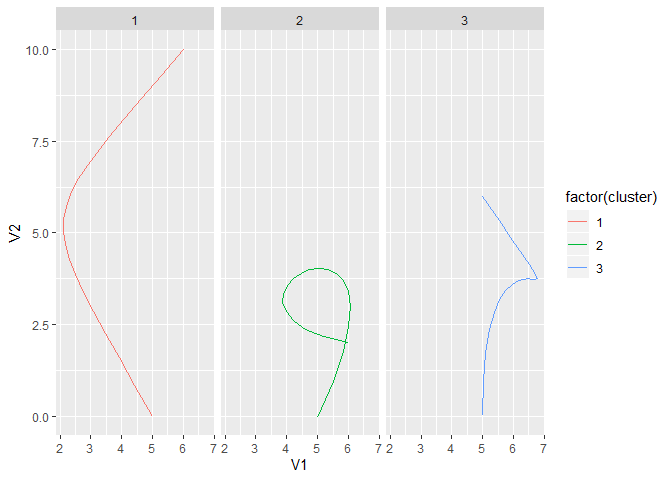
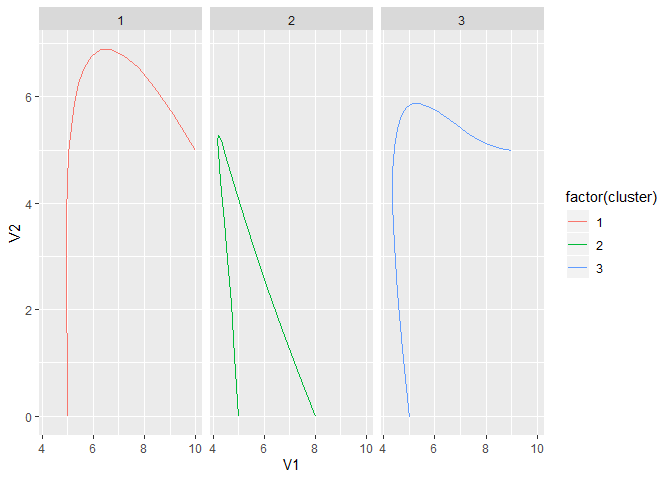
updated for better 903124 data

diff --git a/README.md b/README.md
@@ -86,20 +86,20 @@ em_results <-
 #> 0 sec elapsed
 #> [1] 1
 #> [1] "e_step time"
-#> 0.53 sec elapsed
+#> 0.56 sec elapsed
 #> [1] -Inf
 #> [1] "m_step time"
 #> 0.03 sec elapsed
 #> [1] 2
 #> [1] "e_step time"
-#> 0.53 sec elapsed
-#> [1] 3647.155
+#> 0.51 sec elapsed
+#> [1] 3392.626
 #> [1] "m_step time"
-#> 0.02 sec elapsed
+#> 0.01 sec elapsed
 #> [1] 3
 #> [1] "e_step time"
-#> 0.52 sec elapsed
-#> 1.63 sec elapsed
+#> 0.54 sec elapsed
+#> 1.69 sec elapsed
 
 
 cluster_means <-
@@ -117,9 +117,9 @@ nested_trajectory_data %>%
 #> # A tibble: 3 x 3
 #>   cluster pred_cluster     n
 #>     <dbl>        <dbl> <int>
-#> 1       1            1    12
-#> 2       2            3     4
-#> 3       3            2     4
+#> 1       1            3     5
+#> 2       2            2     5
+#> 3       3            1    10
 
 nested_trajectory_data %>%
   bind_cols(as_tibble(em_results$Pik)) %>%
@@ -162,9 +162,9 @@ new_data_fit %>%
 #> # A tibble: 3 x 3
 #>   cluster cluster_assigned     n
 #>     <dbl>            <dbl> <int>
-#> 1       1                1    46
-#> 2       2                3    31
-#> 3       3                2    43
+#> 1       1                3    50
+#> 2       2                2    38
+#> 3       3                1    32
 ```
 
 ``` r
@@ -172,18 +172,18 @@ new_data_fit %>%
 fit_new_data(new_trajectory_data, nfl_em_results) %>%
   left_join(cluster_route_map, by = c("cluster_assigned" = "cluster"))
 #> # A tibble: 120 x 5
-#>    curve_i cluster           data cluster_assigned route_name
-#>      <int>   <dbl> <list<df[,2]>>            <dbl> <chr>     
-#>  1       1       1       [43 x 2]               18 flat      
-#>  2       2       3       [41 x 2]               26 deep_out  
-#>  3       3       1       [37 x 2]               18 flat      
-#>  4       4       1       [39 x 2]               18 flat      
-#>  5       5       1       [47 x 2]               18 flat      
-#>  6       6       2       [49 x 2]               26 deep_out  
-#>  7       7       3       [48 x 2]               26 deep_out  
-#>  8       8       1       [46 x 2]               18 flat      
-#>  9       9       1       [49 x 2]               18 flat      
-#> 10      10       2       [43 x 2]               26 deep_out  
+#>    curve_i cluster data              cluster_assigned route_name
+#>      <int>   <dbl> <list>                       <dbl> <chr>     
+#>  1       1       1 <tibble [46 x 2]>               26 deep_out  
+#>  2       2       1 <tibble [43 x 2]>               26 deep_out  
+#>  3       3       3 <tibble [48 x 2]>               26 deep_out  
+#>  4       4       2 <tibble [47 x 2]>               26 deep_out  
+#>  5       5       3 <tibble [40 x 2]>               26 deep_out  
+#>  6       6       2 <tibble [43 x 2]>               26 deep_out  
+#>  7       7       2 <tibble [41 x 2]>               26 deep_out  
+#>  8       8       3 <tibble [36 x 2]>               26 deep_out  
+#>  9       9       1 <tibble [48 x 2]>               26 deep_out  
+#> 10      10       3 <tibble [46 x 2]>               26 deep_out  
 #> # ... with 110 more rows
 ```
 
@@ -237,18 +237,18 @@ routes_data %>%
   fit_new_data(nfl_em_results) %>%
   left_join(cluster_route_map, by = c("cluster_assigned" = "cluster"))
 #> # A tibble: 394 x 4
-#>    curve_num           data cluster_assigned route_name
-#>        <int> <list<df[,2]>>            <dbl> <chr>     
-#>  1         1       [63 x 2]               30 dig/over  
-#>  2         2       [63 x 2]                5 go/seam   
-#>  3         3       [63 x 2]               27 corner    
-#>  4         4       [63 x 2]               11 flat      
-#>  5         5       [63 x 2]                5 go/seam   
-#>  6         6       [45 x 2]               27 corner    
-#>  7         7       [45 x 2]                4 flat      
-#>  8         8       [45 x 2]                2 dig/over  
-#>  9         9       [45 x 2]               18 flat      
-#> 10        10       [45 x 2]               29 deep_out  
+#>    curve_num data              cluster_assigned route_name
+#>        <int> <list>                       <dbl> <chr>     
+#>  1         1 <tibble [63 x 2]>               30 dig/over  
+#>  2         2 <tibble [63 x 2]>                5 go/seam   
+#>  3         3 <tibble [63 x 2]>               27 corner    
+#>  4         4 <tibble [63 x 2]>               11 flat      
+#>  5         5 <tibble [63 x 2]>                5 go/seam   
+#>  6         6 <tibble [45 x 2]>               27 corner    
+#>  7         7 <tibble [45 x 2]>                4 flat      
+#>  8         8 <tibble [45 x 2]>                2 dig/over  
+#>  9         9 <tibble [45 x 2]>               18 flat      
+#> 10        10 <tibble [45 x 2]>               29 deep_out  
 #> # ... with 384 more rows
 ```
 
@@ -263,7 +263,7 @@ routes_data %>%
 # Load all the data
 routes_data <- 
   # create the tibble with the file names
-  tibble(file_name = "https://raw.githubusercontent.com/danichusfu/NFL_Highlight_Tracking/master/Highligh_19_post.csv") %>%
+  tibble(file_name = "https://raw.githubusercontent.com/danichusfu/NFL_Highlight_Tracking/master/Highlight_19_post.csv") %>%
   # read the data in nested
   mutate(data = map(file_name, read_routes_from_903124)) %>%
   dplyr::select(-file_name) %>% 
@@ -305,36 +305,36 @@ fitted_clusters <-
   left_join(cluster_route_map, by = c("cluster_assigned" = "cluster"))
 
 fitted_clusters
-#> # A tibble: 76 x 4
-#>    curve_num           data cluster_assigned route_name 
-#>        <int> <list<df[,2]>>            <dbl> <chr>      
-#>  1         1       [57 x 2]               25 corner     
-#>  2         2       [57 x 2]               12 dig/over   
-#>  3         3       [57 x 2]               28 blocking   
-#>  4         4       [57 x 2]               19 blocking   
-#>  5         5       [57 x 2]                4 flat       
-#>  6         6       [61 x 2]                3 comeback   
-#>  7         7       [61 x 2]               27 corner     
-#>  8         8       [61 x 2]                8 go/vertical
-#>  9         9       [61 x 2]               13 blocking   
-#> 10        10       [61 x 2]                3 comeback   
-#> # ... with 66 more rows
+#> # A tibble: 124 x 4
+#>    curve_num data              cluster_assigned route_name
+#>        <int> <list>                       <dbl> <chr>     
+#>  1         1 <tibble [59 x 2]>               28 blocking  
+#>  2         2 <tibble [59 x 2]>               11 flat      
+#>  3         3 <tibble [59 x 2]>               20 post      
+#>  4         4 <tibble [59 x 2]>               10 flat      
+#>  5         5 <tibble [59 x 2]>                5 go/seam   
+#>  6         6 <tibble [57 x 2]>               25 corner    
+#>  7         7 <tibble [57 x 2]>               12 dig/over  
+#>  8         8 <tibble [57 x 2]>               28 blocking  
+#>  9         9 <tibble [57 x 2]>               19 blocking  
+#> 10        10 <tibble [57 x 2]>                4 flat      
+#> # ... with 114 more rows
 
 routes_data %>%
   select(displayName, gameId, playId) %>%
   bind_cols(fitted_clusters %>% select(route_name))
-#> # A tibble: 76 x 4
-#>    displayName         gameId playId route_name 
-#>    <chr>                <dbl>  <dbl> <chr>      
-#>  1 DeAndre Hopkins 2020010400   3187 corner     
-#>  2 Kenny Stills    2020010400   3187 dig/over   
-#>  3 Darren Fells    2020010400   3187 blocking   
-#>  4 Carlos Hyde     2020010400   3187 blocking   
-#>  5 DeAndre Carter  2020010400   3187 flat       
-#>  6 Taiwan Jones    2020010400   4780 comeback   
-#>  7 DeAndre Hopkins 2020010400   4780 corner     
-#>  8 Kenny Stills    2020010400   4780 go/vertical
-#>  9 Darren Fells    2020010400   4780 blocking   
-#> 10 DeAndre Carter  2020010400   4780 comeback   
-#> # ... with 66 more rows
+#> # A tibble: 124 x 4
+#>    displayName         gameId playId route_name
+#>    <chr>                <dbl>  <dbl> <chr>     
+#>  1 Luke Willson    2020010501   2688 blocking  
+#>  2 Tyler Lockett   2020010501   2688 flat      
+#>  3 David Moore     2020010501   2688 post      
+#>  4 Travis Homer    2020010501   2688 flat      
+#>  5 D.K. Metcalf    2020010501   2688 go/seam   
+#>  6 DeAndre Hopkins 2020010400   3187 corner    
+#>  7 Kenny Stills    2020010400   3187 dig/over  
+#>  8 Darren Fells    2020010400   3187 blocking  
+#>  9 Carlos Hyde     2020010400   3187 blocking  
+#> 10 DeAndre Carter  2020010400   3187 flat      
+#> # ... with 114 more rows
 ```
